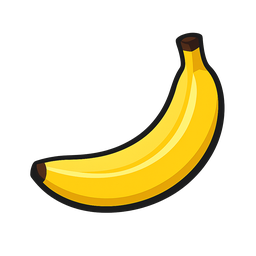
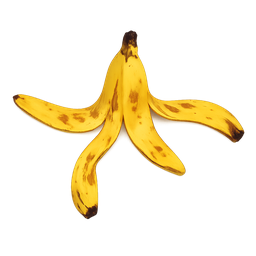
fix: 바나나(Banana) 및 터진 바나나(Broken_Banana) 이미지 에셋 파일명 원복 및 싱크

diff --git a/.agents/ai_context_index.md b/.agents/ai_context_index.md
@@ -274,6 +274,14 @@
 - **특이사항/의존성:** Vercel/Netlify 등 클라우드 배포 환경에서 복사한 초대 링크로 외부 플레이어가 100% 정상 접속 가능함.
 ---
 
+---
+## [2026-08-03 / 🍌 바나나(Banana.png) 및 터진 바나나(Broken_Banana.png) 이미지파일명 원복 및 깃 Sync]
+- **관련 파일 경로:** `Items/Banana.png`, `Items/Broken_Banana.png`, `public/items/banana.png`, `public/items/broken_banana.png`
+- **핵심 기능 및 역할:** 바나나(던지기 전)와 터진 바나나(던진 후)의 이미지 및 파일명이 서로 반대로 교체되어 있던 문제를 원래 위치로 원복함. `Items/` 및 `public/items/` 내의 바나나 이미지 파일들을 올바르게 교체 동기화함.
+- **주요 함수/에셋 레퍼런스:** `Items/Banana.png`, `Items/Broken_Banana.png`, `public/items/banana.png`, `public/items/broken_banana.png`
+- **특이사항/의존성:** GitHub main 브랜치 push를 통해 Vercel 등 자동 배포 및 서버에 즉시 적용됨.
+---
+
 
 
 
